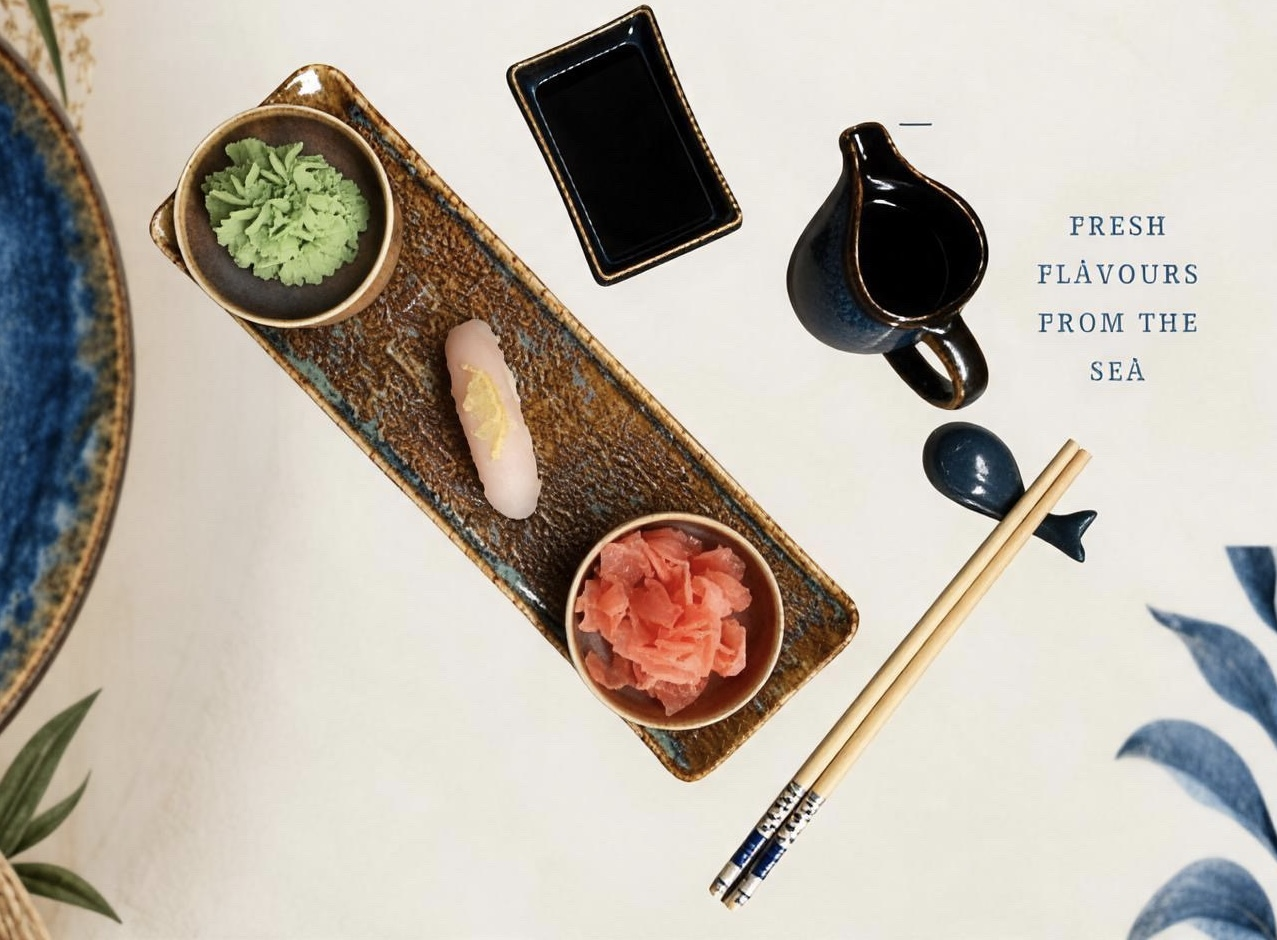
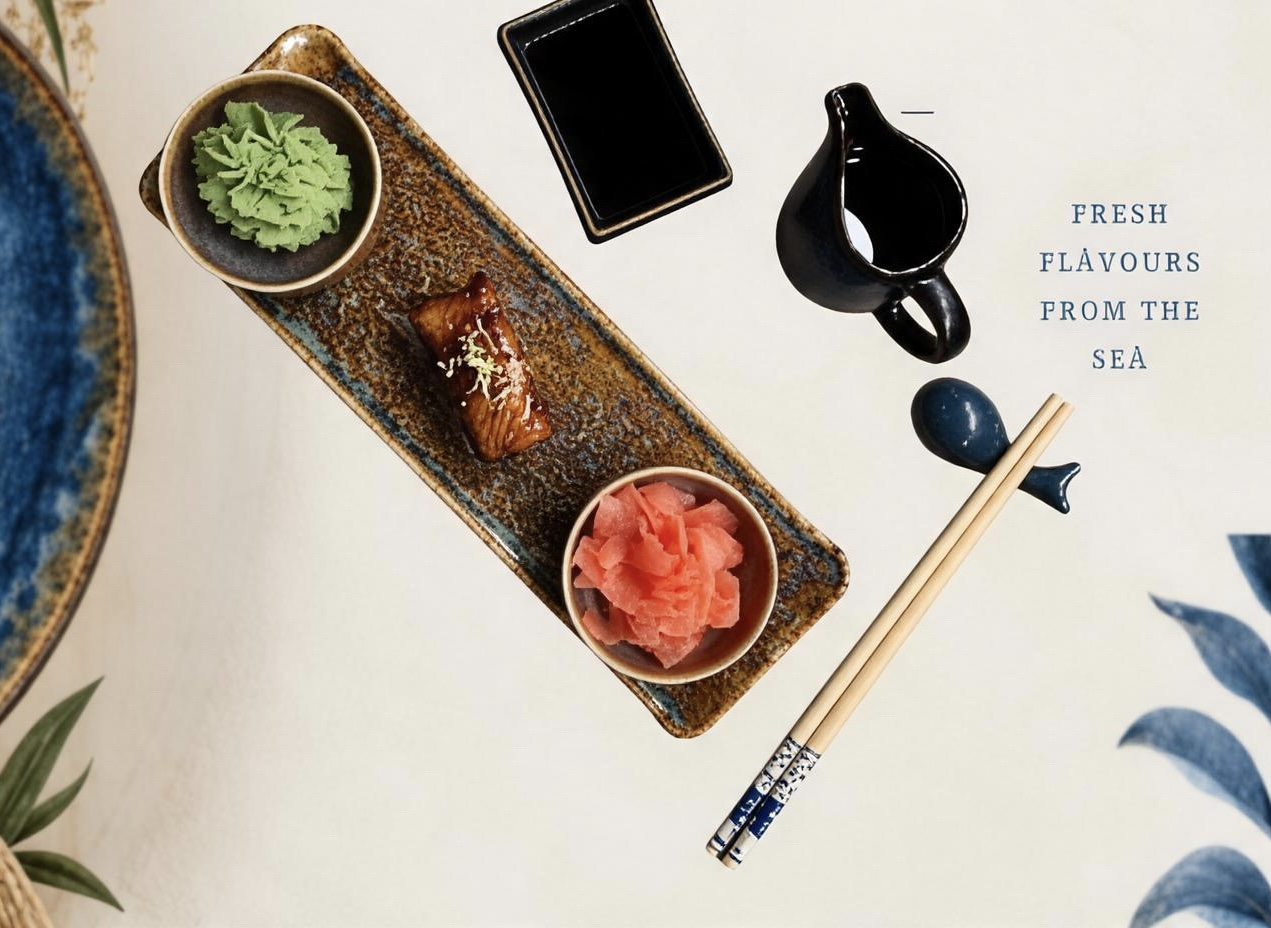
Update nigiri eel and seabass menu images and references

diff --git a/src/data/menuData.ts b/src/data/menuData.ts
@@ -241,11 +241,13 @@ export const menuSectionsData: MenuSection[] = [
       },
       {
         name: "Seabass", category: "sushi-classics", price: "€1.50",
-        image: "/images/menu/seabass-nigiri.JPEG",
+        image: "/images/menu/nigiri-seabass.JPEG",
+
       },
       {
         name: "Eel teriyaki & sesame", category: "sushi-classics", price: "€1.50",
         image: "/images/menu/nigiri-eel.JPEG",
+
       },
       {
         name: "Caviar rice & nori", category: "sushi-classics", price: "€1.50",
